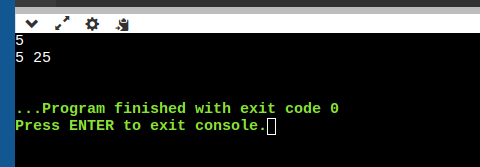
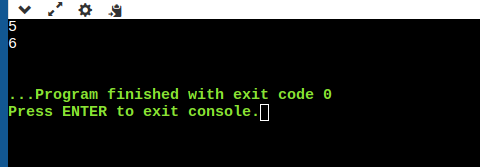
Add files via upload

Changed region(s): [[0.0, 0.0, 1.0, 1.0], [0.5625, 0.7784, 0.5938, 0.8084]]

diff --git a/Codigos_e_Exemplos/01.Subprogramas/Slide_13/1.Resultado_Valor.py b/Codigos_e_Exemplos/01.Subprogramas/Slide_13/1.Resultado_Valor.py
@@ -1,7 +1,8 @@
-def quadrado(x):
-    return x*x 
+def sub(x):
+    a = int
+    a = x + 1
+    print(a)
 
 x = 5
 print(x)
-y = quadrado(x)
-print(x,y)
+sub(x)
